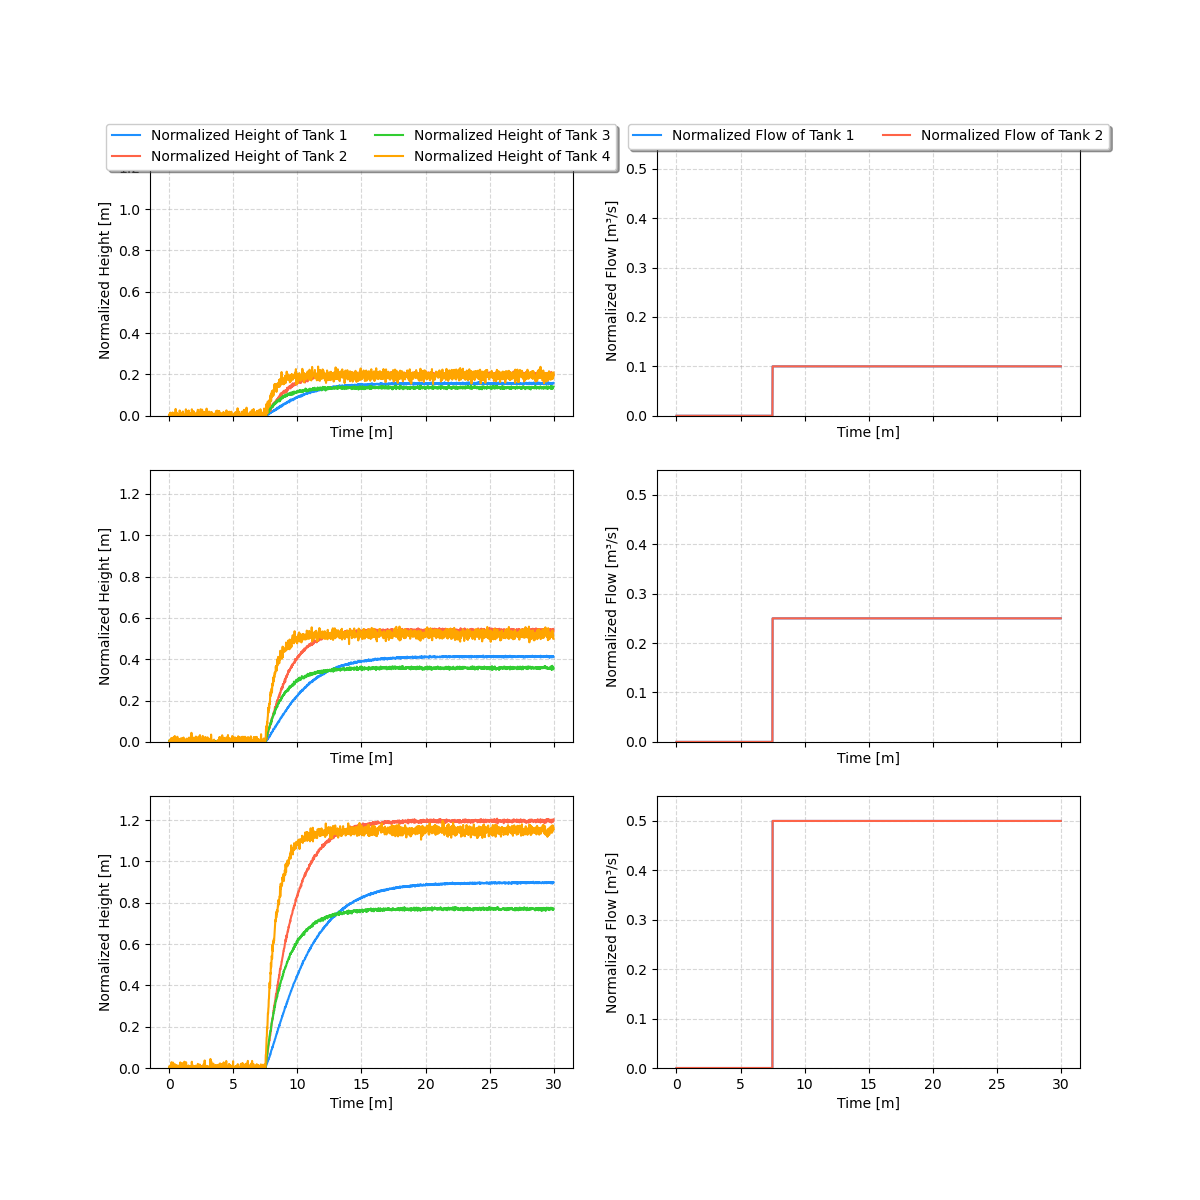
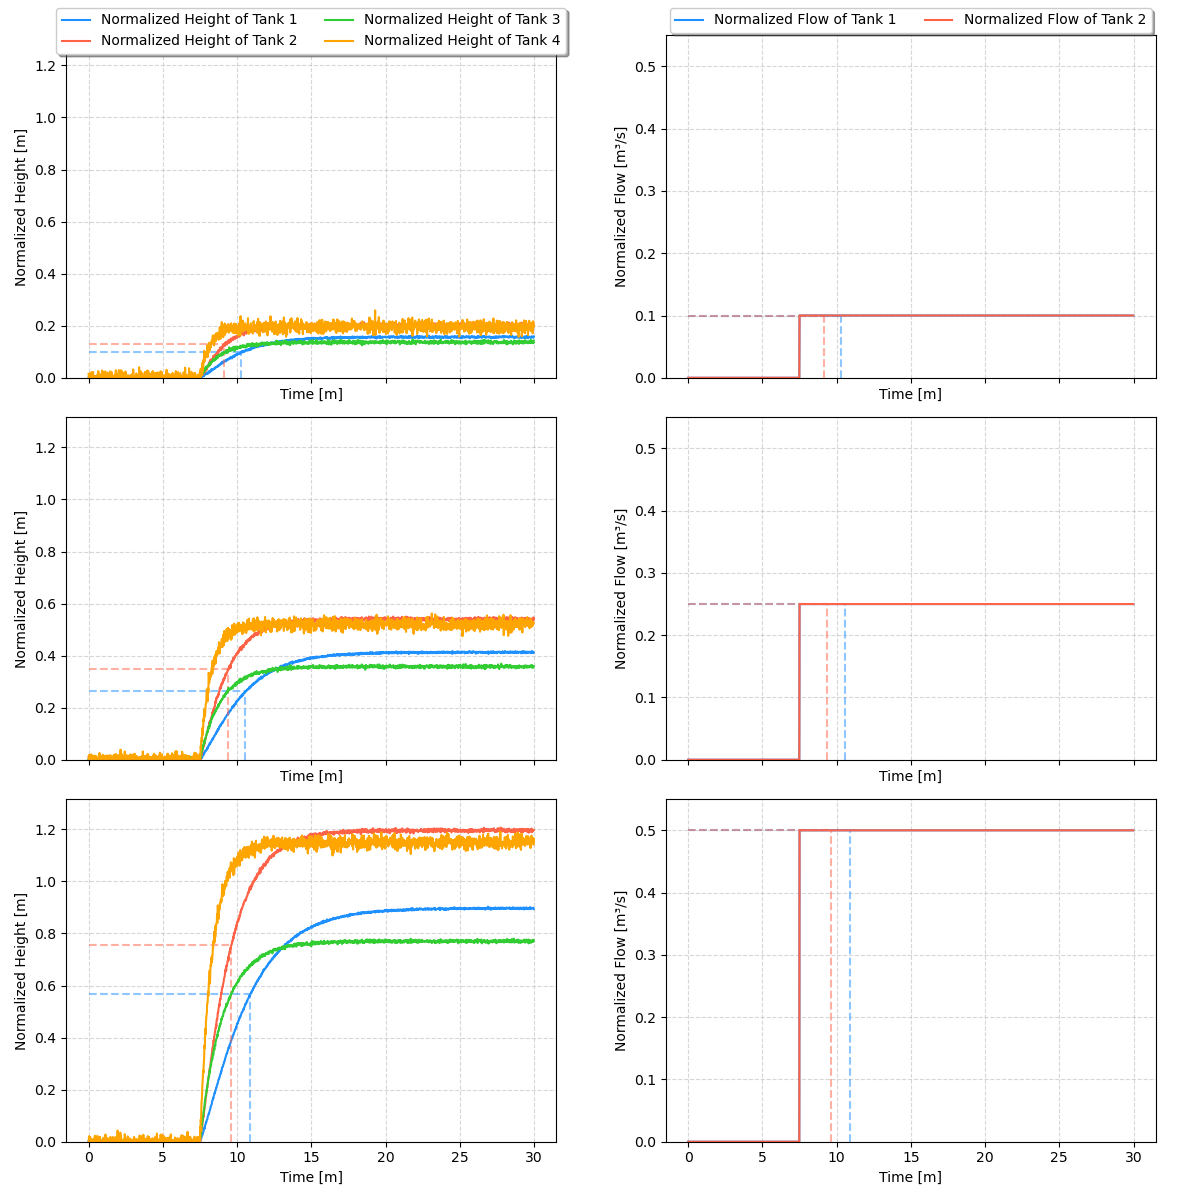
P4

diff --git a/Problem_4.py b/Problem_4.py
@@ -28,11 +28,13 @@ noise_leves = [0, 0.01, 0.1, 0.5]
 colors = ['dodgerblue', 'tomato', 'limegreen', 'orange']
 ls = ['-', '-', '-']
 
-df = pd.DataFrame(columns=['noise_level', 'step', 'k_1', 'k_2', 'k_3', 'k_4', 'tau_1', 'tau_2', 'tau_3', 'tau_4'])
+df = pd.DataFrame(columns=['noise_level', 'step', 'G_1(step)', 'G_2(step)', 'G_3(step)', 'G_4(step)', 'tau_1', 'tau_2', 'tau_3', 'tau_4'])
 
 df_i = 0
 
-for noise_level in noise_leves:
+fig, axes = plt.subplots(4, 3, figsize=(12, 12), sharex=True)
+
+for k, noise_level in enumerate(noise_leves):
     Rvv = np.eye(4)*noise_level
 
     Model = FourTankSystem(Rvv, Rvv, p, delta_t, F3 = F3, F4 = F4, sigma_f3 = noise_level, sigma_f4 = noise_level)
@@ -54,8 +56,6 @@ for noise_level in noise_leves:
 
     ss_max = 0
 
-    fig, axes = plt.subplots(3, 2, figsize=(12, 12), sharex=True)
-
     for j, step in enumerate(steps):
         u_array[0, Nt//4:] = F1*(1 + step)
         u_array[1, Nt//4:] = F2*(1 + step)
@@ -68,7 +68,8 @@ for noise_level in noise_leves:
         u_norm = (u_out - u[:, None]) / u[:, None]
         ss_new = np.mean(h_norm[:, -Nt//10:], axis = 1)
 
-        tau_idx = np.where(h_norm / ss_new[:,None] > 0.63)[1][:]
+        tau_idxs = np.where(h_norm / ss_new[:,None] > 0.63)
+        tau_idx = np.array([tau_idxs[1][tau_idxs[0] == i][0] for i in range(4)])
         tau = t[tau_idx]
 
         df.loc[df_i] = [noise_level, step, ss_new[0], ss_new[1], ss_new[2], ss_new[3], tau[0], tau[1], tau[2], tau[3]]
@@ -79,29 +80,33 @@ for noise_level in noise_leves:
 
         print(f"Step Response:\n\tstep: {step}\n\tss: {ss_new}\n\ttaus: {tau}")
 
-        for i in range(4):  
-            axes[j, 0].plot(t/60, h_norm[i, :], label=f'Normalized Height of Tank {i+1}', color=colors[i], ls=ls[0])
+        for i in range(4):
+            axes[k, j].grid(True, linestyle='--', alpha=0.5)
+            axes[k, j].plot(t/60, h_norm[i, :], label=f'Normalized Height of Tank {i+1}', color=colors[i], ls=ls[0])
             if i < 2:
-                axes[j, 1].plot(t/60, u_norm[i, :], label=f'Normalized Flow of Tank {i+1}', color=colors[i], ls=ls[0])
+                # axes[j, -1].plot(t/60, u_norm[i, :], label=f'Normalized Flow of Tank {i+1}', color=colors[i], ls=ls[0])
+                axes[k, j].vlines(tau[i]/60, 0, h_norm[i, tau_idx[i]], color=colors[i], ls='--', alpha=0.5)
+                axes[k, j].hlines(h_norm[i, tau_idx[i]], 0, tau[i]/60, color=colors[i], ls='--', alpha=0.5)
 
-    for j in range(3):
-        axes[j, 0].set_xlabel('Time [m]')
-        axes[j, 1].set_xlabel('Time [m]')
-        axes[j, 0].set_ylabel('Normalized Height [m]')
-        axes[j, 1].set_ylabel('Normalized Flow [m³/s]')
-        axes[j, 0].grid(True, linestyle='--', alpha=0.5)
-        axes[j, 1].grid(True, linestyle='--', alpha=0.5)
-        axes[j, 0].set_ylim(0, ss_max*1.1)
-        axes[j, 1].set_ylim(0, step*1.1)
+                # axes[j, -1].vlines(tau[i]/60, 0, u_norm[0, tau_idx[i]], color=colors[i], ls='--', alpha=0.5)
+                # axes[j, -1].hlines(u_norm[0, tau_idx[i]], 0, tau[i]/60, color=colors[i], ls='--', alpha=0.5)
 
-    axes[0, 0].legend(loc='upper center', bbox_to_anchor=(0.5, 1.10),
+    axes[0, 2].legend(loc='upper center', bbox_to_anchor=(-0.75, 1.30),
         ncol=2, fancybox=True, shadow=True)
-    axes[0, 1].legend(loc='upper center', bbox_to_anchor=(0.5, 1.10),
-        ncol=2, fancybox=True, shadow=True)
-    plt.savefig(f'figures/Problem4/Problem_4_noise_{noise_level}.png')
-    plt.close()
 
     print(f'Noise level: {noise_level}\nPlot saved to Problem_4_noise_{noise_level}.png')
     print("-"*10)
+
+# plt.tight_layout()
+axes[3, 0].set_xlabel('Time [m]\nStep = 0.1')
+axes[3, 1].set_xlabel('Time [m]\nStep = 0.25')
+axes[3, 2].set_xlabel('Time [m]\nStep = 0.5')
+axes[0, 0].set_ylabel('Noiseless\nNormalized Height [m]')
+axes[1, 0].set_ylabel('Noise Level = 0.01\nNormalized Height [m]')
+axes[2, 0].set_ylabel('Noise Level = 0.1\nNormalized Height [m]')
+axes[3, 0].set_ylabel('Noise Level = 0.5\nNormalized Height [m]')
+
+plt.savefig(f'figures/Problem4/Problem_4_all.png')
+plt.close()
 
 df.to_csv('figures/Problem4/Problem_4_df.csv', index=False)
